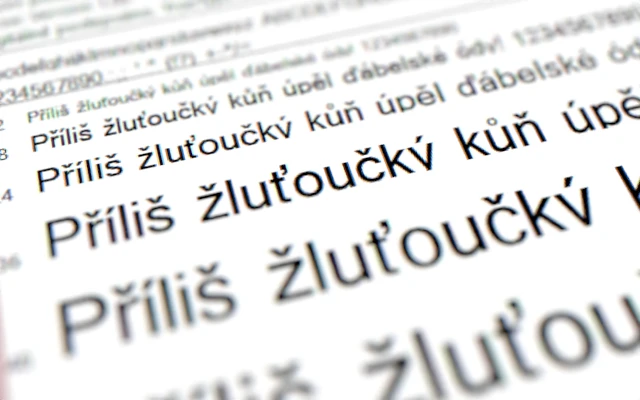
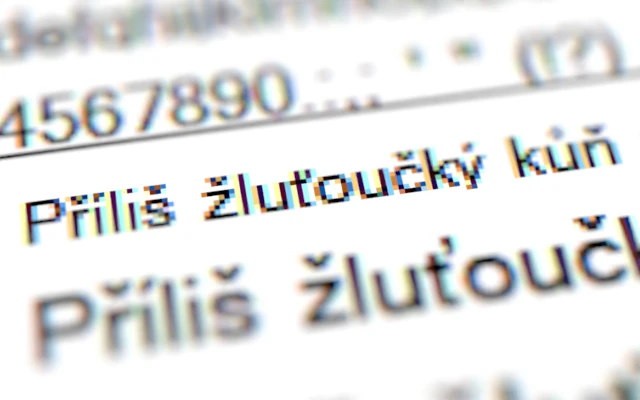
content

diff --git a/src/styles/global.css b/src/styles/global.css
@@ -1,6 +1,6 @@
 * {
 	font-family: 'Solway', serif;
-	font-size: 18px;
+	/* font-size: 18px; */
 }
 
 html, body {